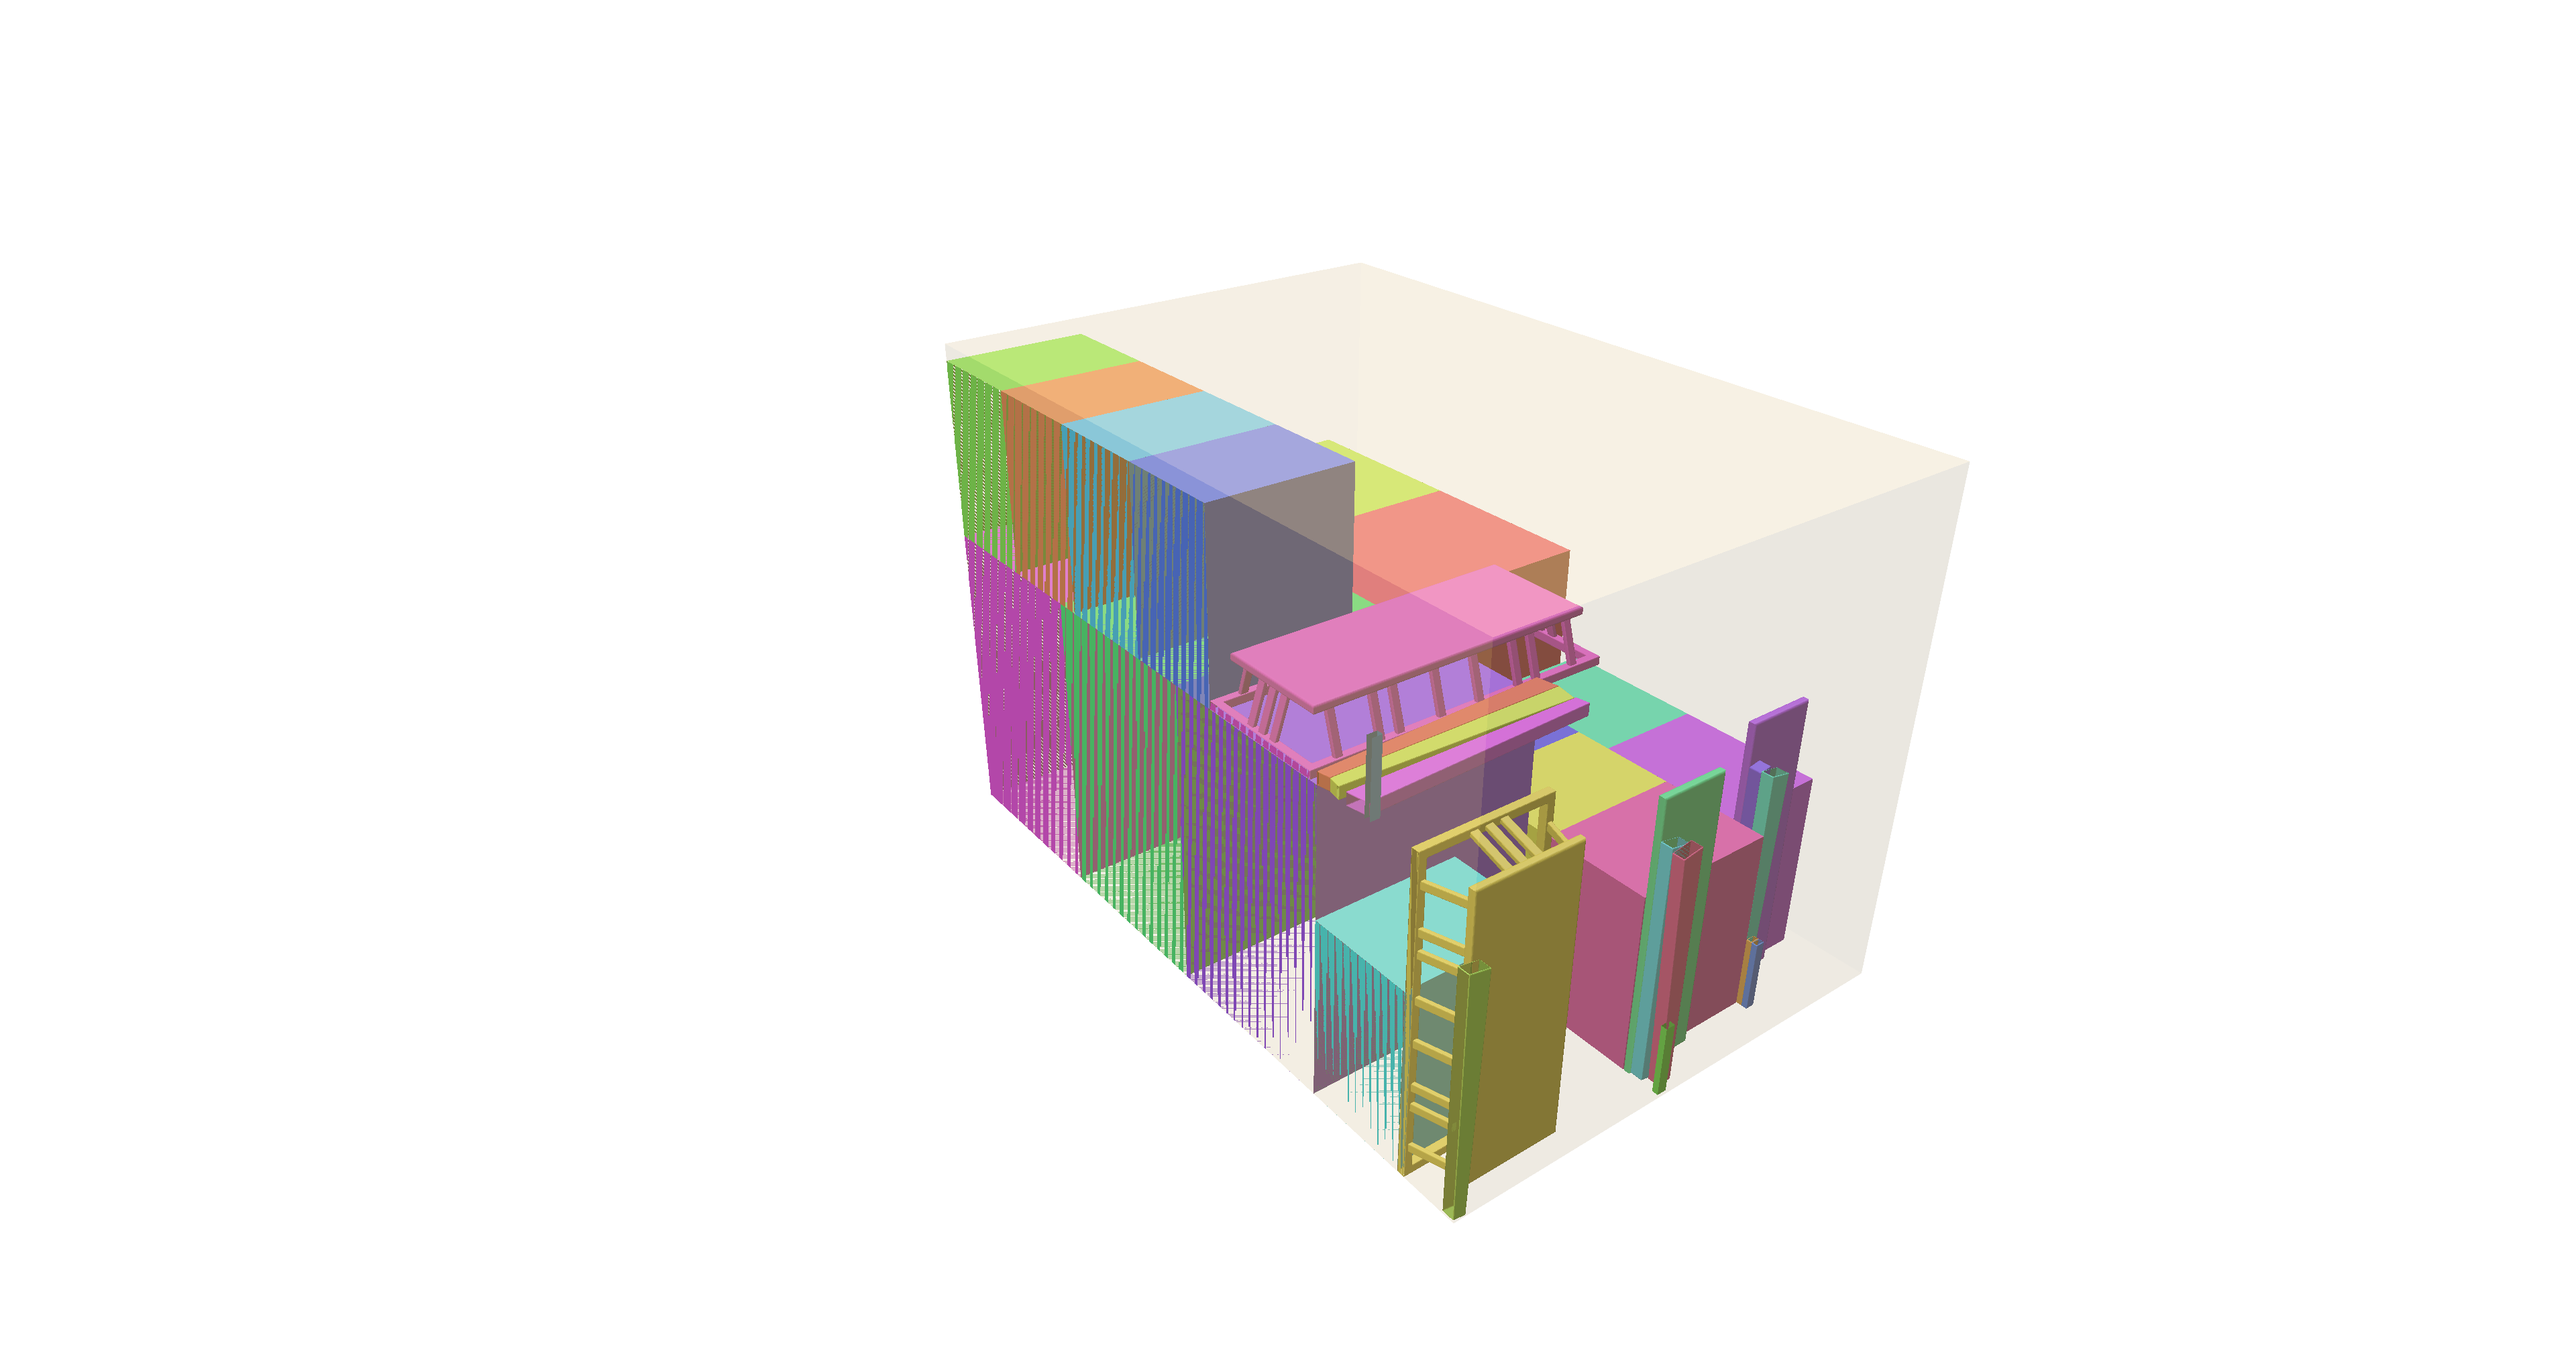
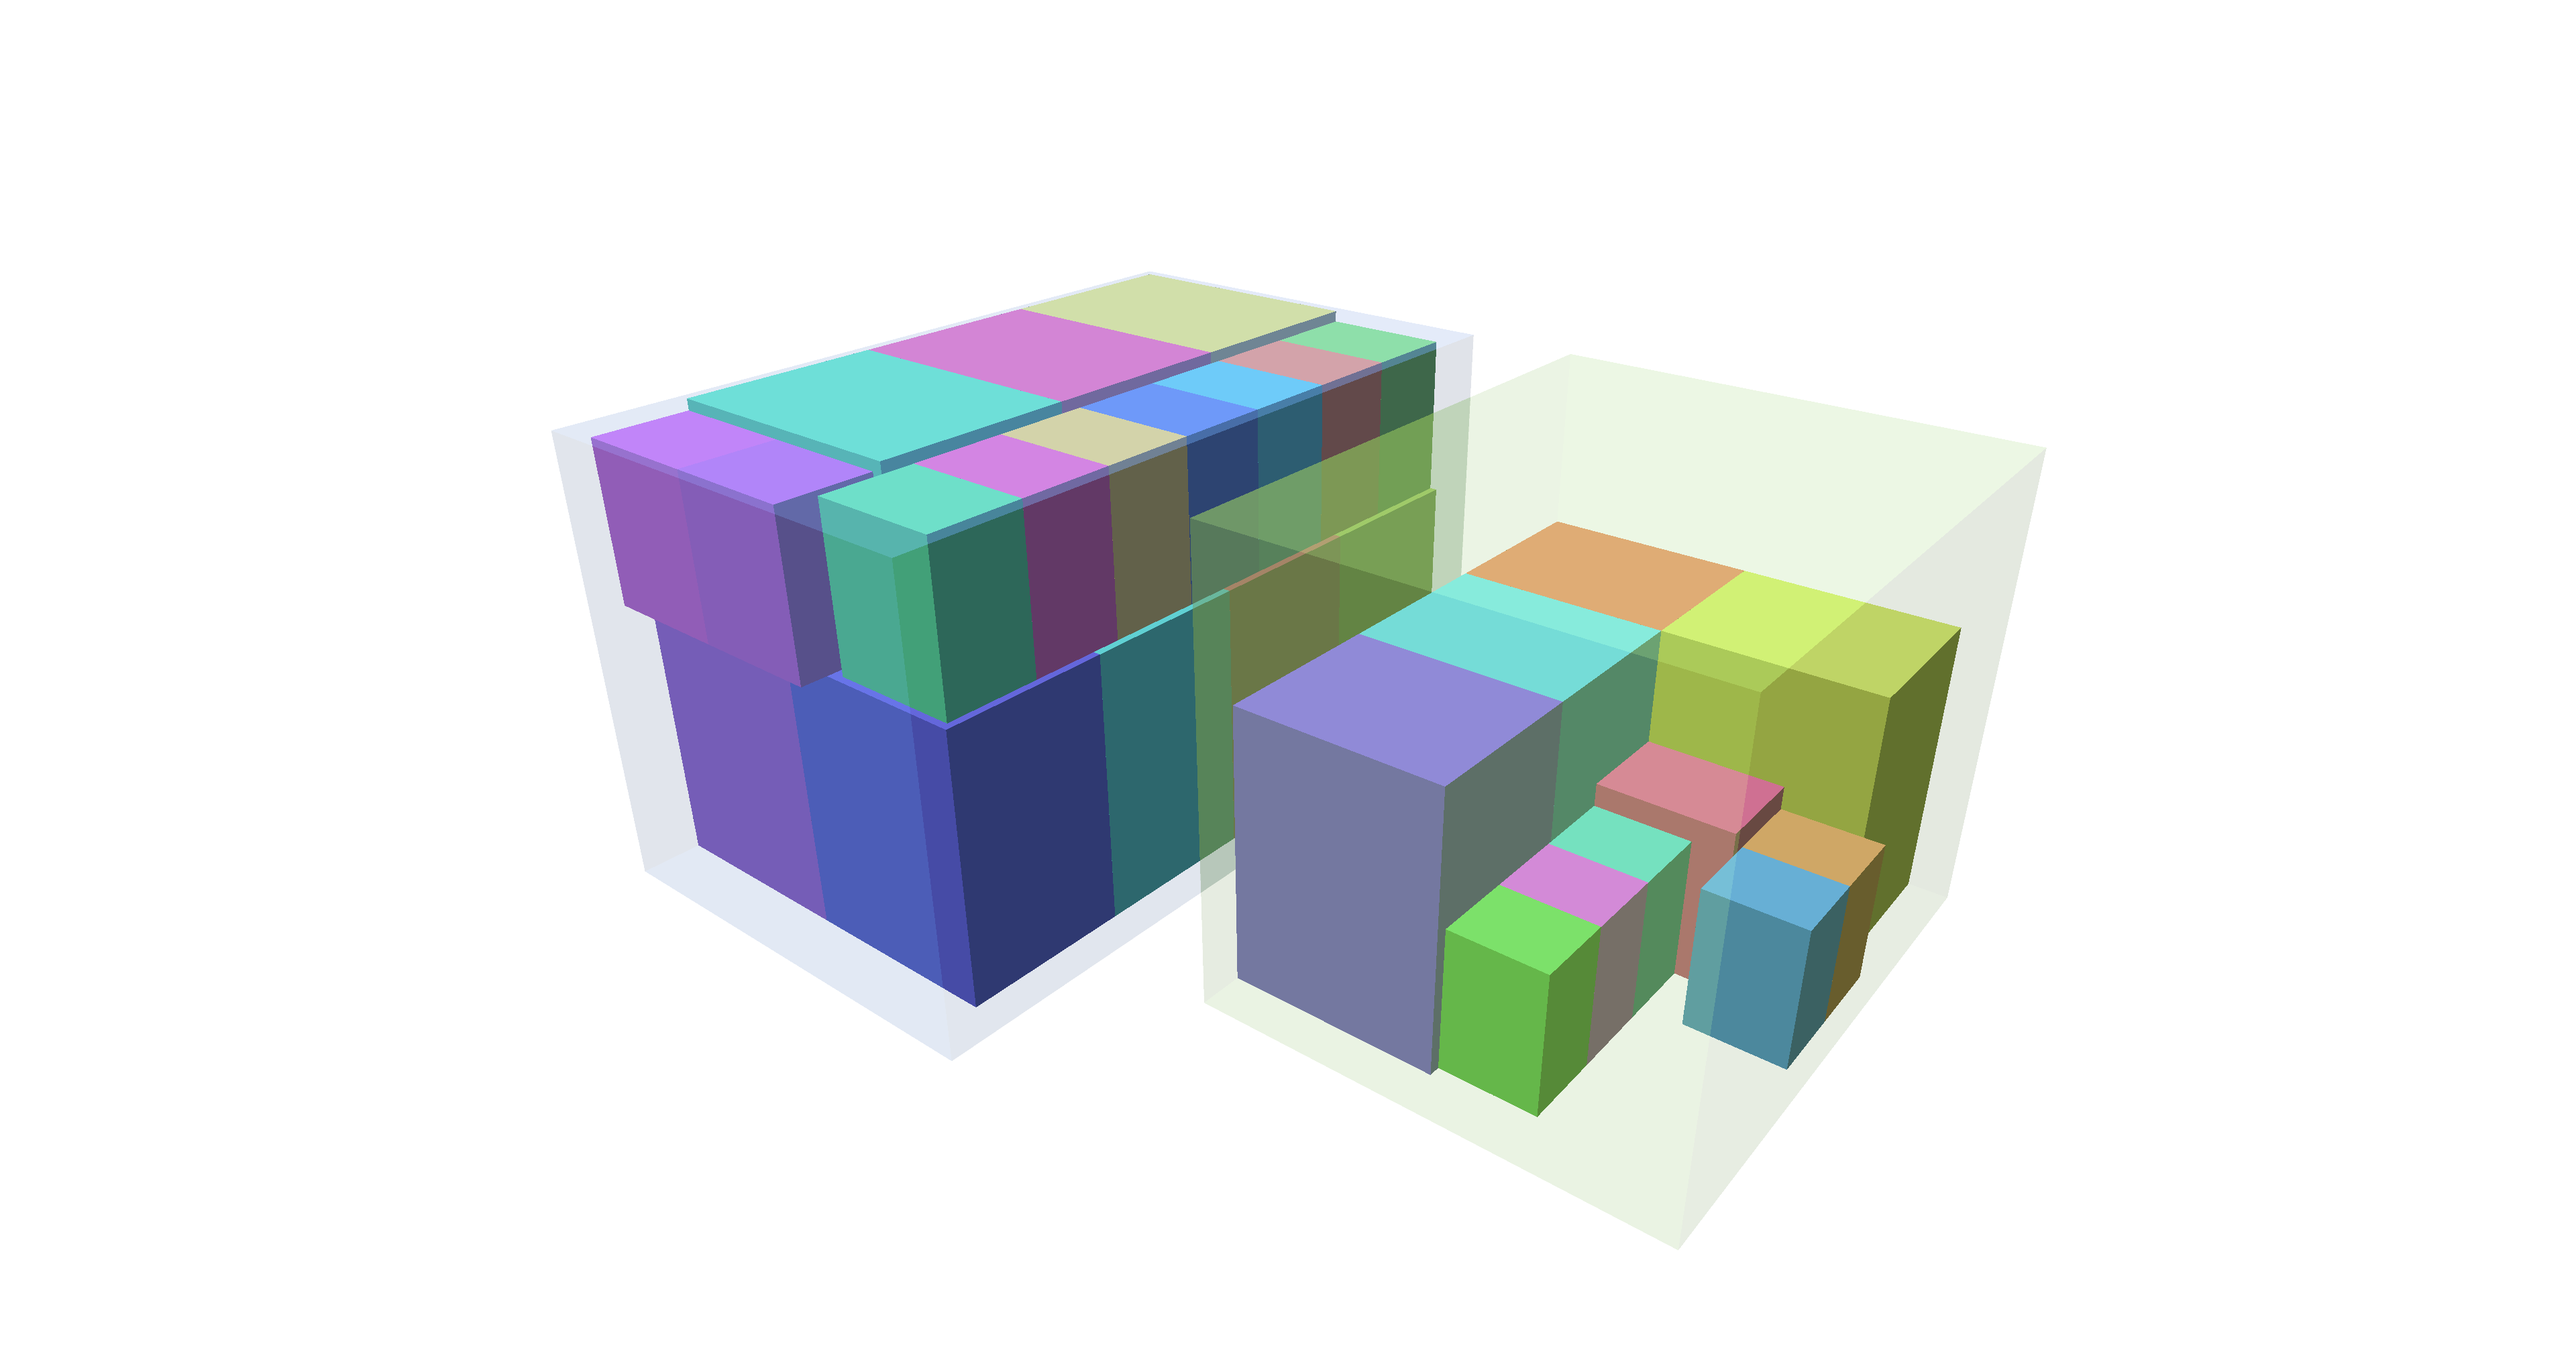
update code for two stages

Changed region(s): [[0.2188, 0.1872, 0.8125, 0.9361]]

diff --git a/two-stages.py b/two-stages.py
@@ -66,7 +66,8 @@ def get_transformation(boxA, boxB):
 
 packer = Packer()
 #packer.add_bin(Bin('M4', 0.73, 0.55, 0.46, 100))
-packer.add_bin(Bin('min van', 1.8, 1.2, 1.2, 100))
+packer.add_bin(Bin('min van 1', 1.5, 1.2, 1.2, 1000))
+packer.add_bin(Bin('min van 2', 2.0, 1.2, 1.2, 1000))
 #packer.add_bin(Bin('5t van', 4.5, 1.8, 1.8, 100))
 
 ps.init()
@@ -79,11 +80,13 @@ ps.set_ground_plane_mode("none")
 # furniture_parts = load_furniture("bekvam", combined=[], y_height=0.5) * 9
 # furniture_parts = load_furniture("bekvam", combined=[], y_height=0.5) * 9
 
-furniture_parts = load_boxes(["M4"] * 5)
+furniture_parts = load_boxes(["M1"] * 5)
 furniture_parts += load_boxes(["M2"] * 10)
+furniture_parts += load_boxes(["M4"] * 15)
+#furniture_parts += load_furniture("sjalland", combined=[[0, 1, 2, 3, 4, 5, 6, 7, 8, 9, 10]], y_height=0.73)
 
 #furniture_parts = load_furniture("sjalland", combined=[[2, 5 ,9], [3, 8, 4], [0], [1], [6], [7], [10]], y_height=0.73)
-furniture_parts += load_furniture("lantliv", combined=[], y_height=0.68) * 2
+#furniture_parts += load_furniture("lantliv", combined=[], y_height=0.68) * 2
 #furniture_parts = load_furniture("lantliv", combined=[[3], [0, 1, 2, 4, 5, 6, 7]]) * 2
 
 
@@ -106,16 +109,19 @@ for id, obj in enumerate(furniture_parts):
     #size = np.sort(size)[::-1]
     packer.add_item(Item(f"{id}", size[0], size[1], size[2], 1))
 
-packer.pack(bigger_first = True)
+packer.pack(bigger_first = True, distribute_items = True)
 
-dimension = np.array([packer.bins[0].width, packer.bins[0].height, packer.bins[0].depth], dtype=np.float64)
-box = Box(extents=dimension)
-box = box.apply_translation(dimension / 2.0)
-container = ps.register_surface_mesh("truck", box.vertices, box.faces)
-container.set_transparency(0.3)
-
-for b in packer.bins:
+y_offset = 1.5
+for ib, b in enumerate(packer.bins):
     print(":::::::::::", b.string())
+
+    dimension = np.array([b.width, b.height, b.depth], dtype=np.float64)
+    box = Box(extents=dimension)
+    box = box.apply_translation(dimension / 2.0)
+    box = box.apply_translation([0, y_offset * ib, 0])
+    container = ps.register_surface_mesh(f"truck {ib}", box.vertices, box.faces)
+    container.set_transparency(0.3)
+
     for id, item in enumerate(b.items):
         dimension = np.array(item.get_dimension(), dtype=np.float64)
         position =  np.array(item.position, dtype=np.float64)
@@ -127,7 +133,9 @@ for b in packer.bins:
         T = get_transformation(furniture_part_bboxs[part_id], box)
         part = Trimesh(furniture_parts[part_id].vertices, furniture_parts[part_id].faces)
         part = part.apply_transform(T)
-        ps.register_surface_mesh(f"pack part {part_id}", part.vertices, part.faces)
-    print(f"{len(packer.bins[0].items)}/{len(packer.items)}")
+        part.apply_translation([0, y_offset * ib, 0])
+        ps.register_surface_mesh(f"pack part {ib}_{part_id}", part.vertices, part.faces)
+
+    print(f"{len(b.items)}/{len(furniture_part_bboxs)}")
 
 ps.show()
